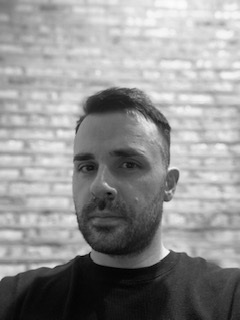
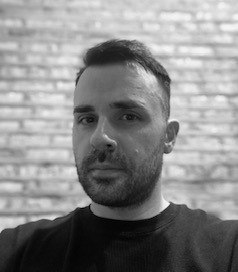
Updates

diff --git a/index.html b/index.html
@@ -1,6 +1,6 @@
 <!DOCTYPE html>
 <html>
-<title>W3.CSS Template</title>
+<title>Vasil Nenov</title>
 <meta charset="UTF-8">
 <meta name="viewport" content="width=device-width, initial-scale=1">
 <link rel="stylesheet" href="https://www.w3schools.com/w3css/4/w3.css">
@@ -87,8 +87,14 @@ and is wrapped around the whole page content, except for the footer in this exam
   <div class="w3-card w3-margin w3-margin-top">
   <img src="./images/aboutme.jpg" style="width:100%">
     <div class="w3-container w3-white">
-      <h4><b>Vasil Nenov</b></h4>
-      <p>Just me, myself and I, exploring the universe of uknownment. I have a heart of love and a interest of lorem ipsum and mauris neque quam blog. I want to share my world with you.</p>
+      <h4><b>Hi my name is Vasil</b></h4>
+      <p>I am an aspiring Data Analyst with a focus on Database Mangement, Business Intelligence and Strategy.</p>
+      <p>I started becoming more involved with Data Science after starting my own business in Denver, Colorado.  
+        I love taking deep dives into data and figuring out how and why things work, finding hidden links and associations
+        between different sets of data and ultimately creating solutions to complex problems.</p>
+      <p>In my spare time you might find me under the hood of a car, picking up heavy things and putting them down repeatedly 
+        or on StackOverflow.
+      </p>
     </div>
   </div><hr>
   
@@ -98,26 +104,36 @@ and is wrapped around the whole page content, except for the footer in this exam
       <h4>Featured Challenges</h4>
     </div>
     <ul class="w3-ul w3-hoverable w3-white">
+
       <li class="w3-padding-16">
-        <img src="/w3images/workshop.jpg" alt="Image" class="w3-left w3-margin-right" style="width:50px">
-        <span class="w3-large">Lorem</span><br>
-        <span>Sed mattis nunc</span>
+        <img src="./images/ufo.jpg" alt="Image" class="w3-left w3-margin-right" style="width:50px">
+        <span class="w3-large"><a href="https://vgnenov.github.io/Javascript-Challenge/" target="_blank">UFO Visitor Dashboard</a></span><br>
+        <span>
+          <p>
+            Create a dynamic table based upon UFO sighting dataset that will enable users to search and 
+            filter the table data for specific values. 
+          </p>
+        </span>
       </li>
+
       <li class="w3-padding-16">
-        <img src="/w3images/gondol.jpg" alt="Image" class="w3-left w3-margin-right" style="width:50px">
-        <span class="w3-large">Ipsum</span><br>
-        <span>Praes tinci sed</span>
+        <img src="./images/bacteria.jpg" alt="Image" class="w3-left w3-margin-right" style="width:50px">
+        <span class="w3-large"><a href="https://vgnenov.github.io/Belly-Button-Biodiversity/" target="_blank">Belly Button Biodiversity Interactive Dashboard</a></span><br>
+        <span>
+          <p>
+            Building interactive dashboard to explore Belly Button Biodiversity, which catalogs the microbes that colonize the human navel.
+            A dynamic dashboard that updates all charts and graphs when a new sample is selected. 
+            Gif Version
+          </p>
+        </span>
       </li> 
+
       <li class="w3-padding-16">
         <img src="/w3images/skies.jpg" alt="Image" class="w3-left w3-margin-right" style="width:50px">
         <span class="w3-large">Dorum</span><br>
         <span>Ultricies congue</span>
       </li>   
-      <li class="w3-padding-16 w3-hide-medium w3-hide-small">
-        <img src="/w3images/rock.jpg" alt="Image" class="w3-left w3-margin-right" style="width:50px">
-        <span class="w3-large">Mingsum</span><br>
-        <span>Lorem ipsum dipsum</span>
-      </li>  
+      
     </ul>
   </div>
   <hr> 
@@ -129,7 +145,7 @@ and is wrapped around the whole page content, except for the footer in this exam
     </div>
     <div class="w3-container w3-white">
     <p>
-      <span class="w3-tag w3-black w3-margin-bottom"><a href="https://www.w3schools.com/w3css/default.asp" target="_blank">Python</a>a</span>
+      <span class="w3-tag w3-black w3-margin-bottom"><a href="https://www.w3schools.com/w3css/default.asp" target="_blank">Python</a></span>
       <span class="w3-tag w3-light-grey w3-small w3-margin-bottom">New York</span> 
       <span class="w3-tag w3-light-grey w3-small w3-margin-bottom">London</span>
       <span class="w3-tag w3-light-grey w3-small w3-margin-bottom">IKEA</span> 
